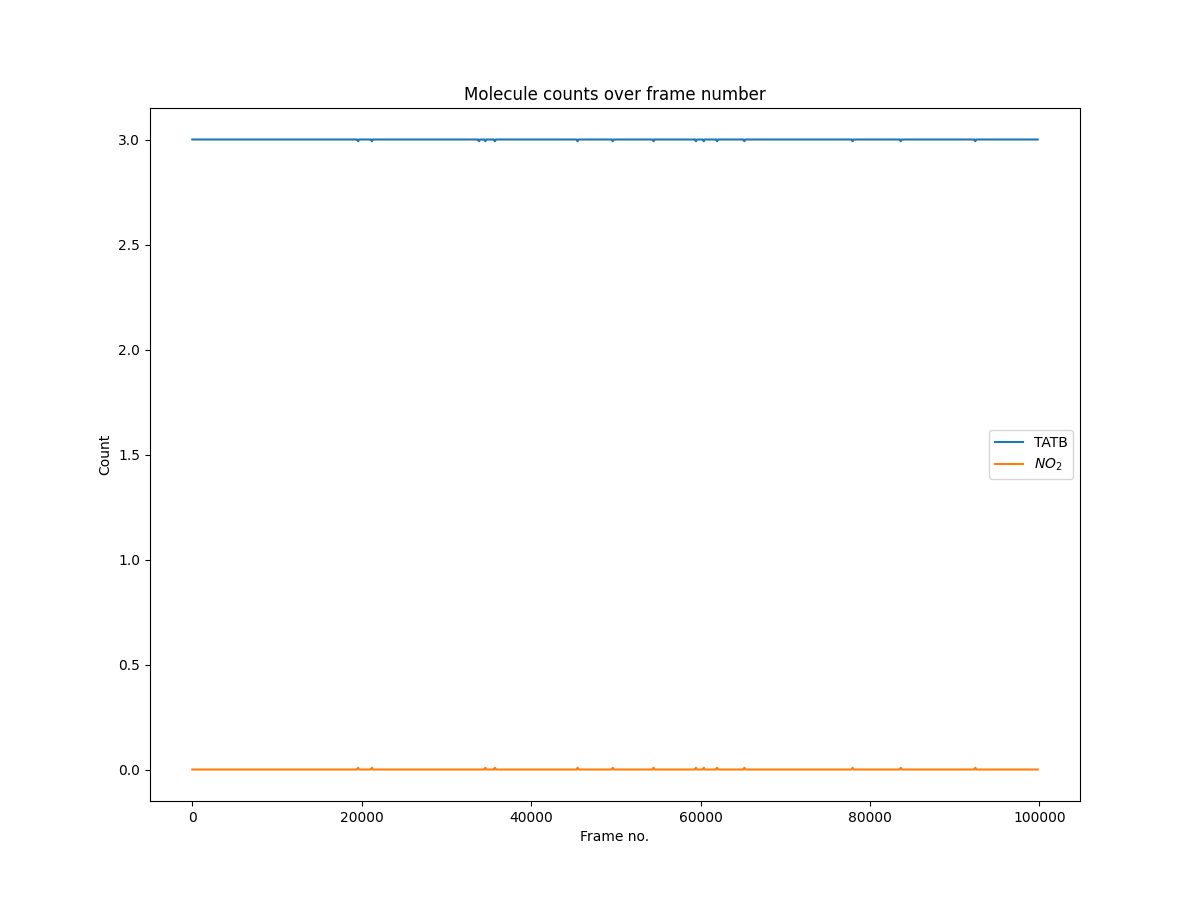
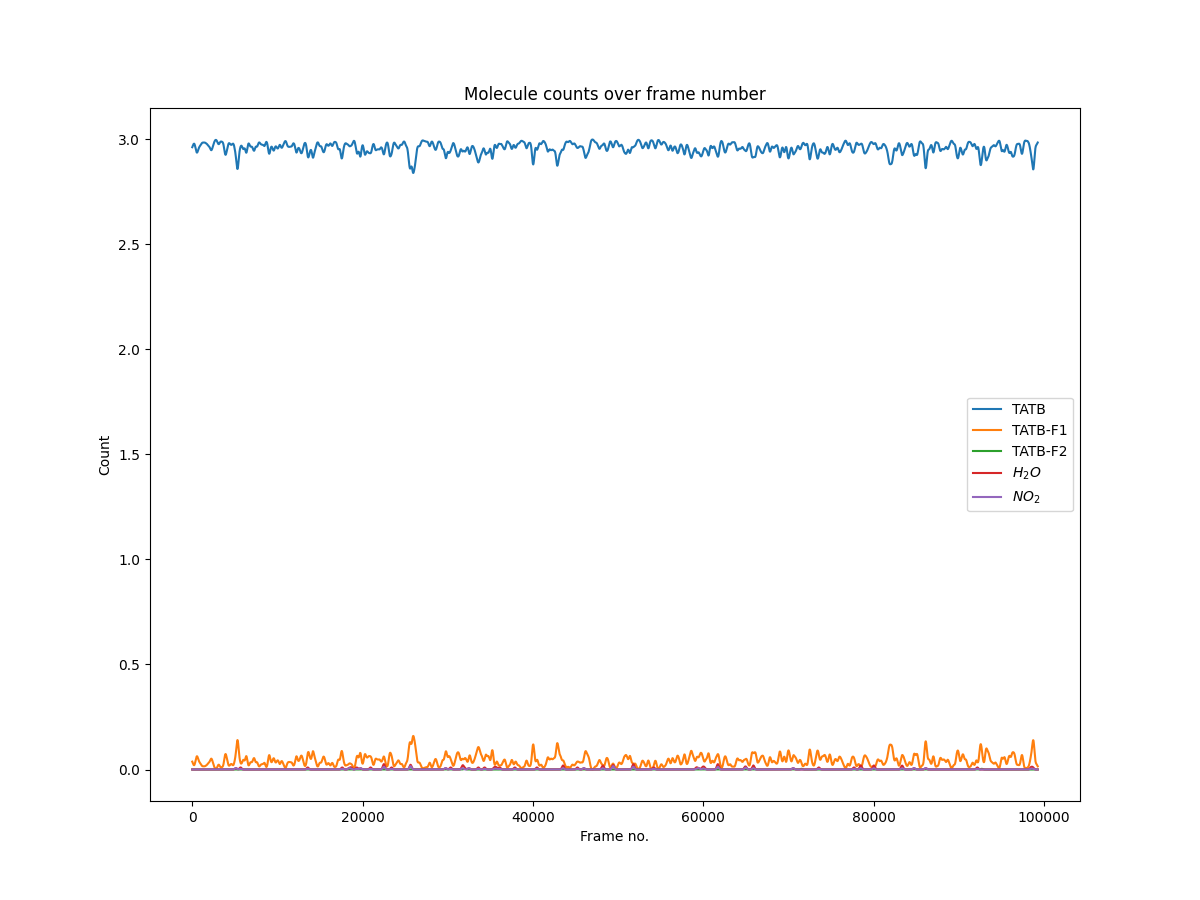
Optimizations and bug-fixing for analysis script

diff --git a/WA-1/00-common/analyze.py b/WA-1/00-common/analyze.py
@@ -20,6 +20,8 @@
 
 import sys
 import os
+import time
+import argparse
 import numpy as np
 import ase.io
 import matplotlib.pyplot as plt
@@ -31,92 +33,111 @@ import matplotlib.pyplot as plt
 CUTOFF_LENGTH = 1.85
 CUTOFF_LENGTH_SQ = CUTOFF_LENGTH**2
 
-CONVOLUTION_WIDTH = 200
+CONVOLUTION_WIDTH = 250
 
-MOLECULES_TO_FIND = [[[6, 6, 6, 6], r'TATB'],     # TATB, C6H6O6N6
-                     [[6, 4, 5, 6], r'TATB-F1'],  # TATB-F1 (furazan intermediate), C6H4O5N6
-                     [[6, 2, 4, 6], r'TATB-F2'],  # TATB-F2 (furazan intermediate), C6H2O4N6
-                     [[6, 0, 3, 6], r'TATB-F3'],  # TATB-F3 (furazan intermediate), C6O3N6
-                     [[1, 0, 2, 0], r'$CO_{2}$'], # Carbon dioxide, CO2
-                     [[1, 0, 1, 0], r'$CO$'],     # Carbon monoxide, CO
-                     [[0, 2, 1, 0], r'$H_{2}O$'], # Water, H2O
-                     [[0, 0, 0, 2], r'$N_{2}$'],  # Nitrogen gas, N2
-                     [[0, 0, 1, 2], r'$N_{2}O$'], # Nitrous oxide, N2O
-                     [[0, 0, 1, 1], r'$NO$'],     # Nitrogen monoxide, NO
-                     [[0, 0, 2, 1], r'$NO_{2}$']] # Nitrogen dioxide, NO2
+MOLECULES_TO_FIND = [[[6, 6, 6, 6], r'TATB', 'TATB'],       # TATB, C6H6O6N6
+                     [[6, 4, 5, 6], r'TATB-F1', 'TATB-F1'], # Furazan intermediate, C6H4O5N6
+                     [[6, 2, 4, 6], r'TATB-F2', 'TATB-F2'], # Furazan intermediate, C6H2O4N6
+                     [[6, 0, 3, 6], r'TATB-F3', 'TATB-F3'], # Furazan intermediate, C6O3N6
+                     [[1, 0, 2, 0], r'$CO_{2}$', 'CO2'],    # Carbon dioxide
+                     [[1, 0, 1, 0], r'$CO$', 'CO'],         # Carbon monoxide
+                     [[0, 2, 1, 0], r'$H_{2}O$', 'H2O'],    # Water
+                     [[0, 0, 2, 1], r'$NO_{2}$', 'NO2'],    # Nitrous dioxide
+                     [[0, 0, 1, 2], r'$N_{2}O$', 'N2O'],    # Nitrous oxide
+                     [[0, 0, 1, 1], r'$NO$', 'NO'],         # Nitrogen monoxide
+                     [[0, 0, 0, 2], r'$N_{2}$', 'N2']]      # Nitrogen gas
 
 
 #==================================================================================================
 
-if len(sys.argv) > 1:
-    os.chdir(sys.argv[1])
-if not os.path.isfile('md.traj'):
-    print('md.traj not found!')
+# Parse input arguments
+parser = argparse.ArgumentParser(prog='analyze.py')
+parser.add_argument('dirname', default='./')
+parser.add_argument('--traj', default='md.traj')
+parser.add_argument('-o', '--output', default='compositions.png')
+parser.add_argument('--filter', action='extend', nargs='*', default=None)
+args = parser.parse_args()
+
+# File system handling
+os.chdir(args.dirname)
+if not os.path.isfile(args.traj):
+    print(f'{args.traj} not found!')
     sys.exit()
-if os.path.isfile('compositions.png'):
-    os.remove('compositions.png')
+if os.path.isfile(args.output):
+    os.remove(args.output)
 
-def count_molecules(molecule, target):
-    if np.sum(np.mod(molecule, target)) > 0:
-        return 0
-    nonzero_index = np.nonzero(target)[0][0]
-    possible_count = molecule[nonzero_index] / target[nonzero_index]
-    for i in range(4):
-        if target[i] * possible_count != molecule[i]:
-            return 0
-    return possible_count
+# Filter only desired molecules
+if args.filter is not None:
+    whitelist = [[np.array(mol[0]), np.nonzero(mol[0])[0], mol[1]] for mol in MOLECULES_TO_FIND if mol[2] in args.filter]
+else:
+    whitelist = [[np.array(mol[0]), np.nonzero(mol[0])[0], mol[1]] for mol in MOLECULES_TO_FIND]
+MOLECULES_TO_FIND = whitelist
+print('Filtering for only: ', end='')
+for mol in MOLECULES_TO_FIND:
+    print(mol[2], end=' ')
+print()
 
-traj = ase.io.iread('md.traj', index=slice(0, None, 1))
-
+# Read trajectory
+time_start = time.time()
 list_of_compositions = list()
 frame_counter = 0
+molecule = np.zeros((4,), dtype=int)
+traj = ase.io.iread(args.traj, index=slice(0, None, 1))
 
 for atoms in traj:
 
     cell_params = np.array(atoms.cell.cellpar()[0:3])
     N_atoms = len(atoms)
     
-    molecular_identifiers = np.linspace(0, N_atoms, N_atoms, dtype=int)
+    molecular_label = np.linspace(0, N_atoms, N_atoms, dtype=int)
     for i in range(N_atoms):
         dist = atoms.positions - atoms.positions[i]
         dist -= cell_params * np.round(dist / cell_params)
         dist_sq = np.sum(np.square(dist), axis=1)
-        molecular_identifiers[dist_sq <= CUTOFF_LENGTH_SQ] = molecular_identifiers[i]
+        molecular_label[dist_sq <= CUTOFF_LENGTH_SQ] = molecular_label[i]
 
-    composition = {key[1]: 0 for key in MOLECULES_TO_FIND}
+    composition = {key[2]: 0 for key in MOLECULES_TO_FIND}
     
-    molecules = np.unique(molecular_identifiers)
-    for molecule_index in molecules:
-        molecule_contents = [0, 0, 0, 0]
-        molecule_contents[0] += np.sum(np.logical_and(molecular_identifiers == molecules, atoms.symbols == 'C'))
-        molecule_contents[1] += np.sum(np.logical_and(molecular_identifiers == molecules, atoms.symbols == 'H'))
-        molecule_contents[2] += np.sum(np.logical_and(molecular_identifiers == molecules, atoms.symbols == 'O'))
-        molecule_contents[3] += np.sum(np.logical_and(molecular_identifiers == molecules, atoms.symbols == 'N'))
+    unique_labels = np.unique(molecular_label)
+    for index in unique_labels:
+        molecule[:] = 0
+        molecule[0] += np.sum(np.logical_and(molecular_label == index, atoms.symbols == 'C'))
+        molecule[1] += np.sum(np.logical_and(molecular_label == index, atoms.symbols == 'H'))
+        molecule[2] += np.sum(np.logical_and(molecular_label == index, atoms.symbols == 'O'))
+        molecule[3] += np.sum(np.logical_and(molecular_label == index, atoms.symbols == 'N'))
         for target in MOLECULES_TO_FIND:
-            composition[target[1]] += count_molecules(molecule_contents, target[0])
+            molecule_components = molecule[target[1]]
+            count = np.min(np.floor_divide(molecule_components, target[0][target[1]]))
+            composition[target[2]] += count
+            molecule -= count * target[0]
     
     list_of_compositions.append(composition)
     frame_counter += 1
 
+# Convolution array for Gaussian smoothing
 conv_arr = np.linspace(-3, 3, 3 * CONVOLUTION_WIDTH + 1)
 conv_arr = np.exp(-0.5 * np.square(conv_arr))
 conv_arr = conv_arr / np.sum(conv_arr)
 
+# Generate plot
 fig, axis = plt.subplots()
 fig.set_size_inches(12, 9)
 for target in MOLECULES_TO_FIND:
-    counts = list()
-    display = False
-    for frame in list_of_compositions:
-        counts.append(frame[target[1]])
-        if frame[target[1]] > 0:
-            display = True
-    if display:
-        axis.plot(np.convolve(counts, conv_arr, 'valid'), label=target[1])
+    counts = [frame[target[2]] for frame in list_of_compositions]
+    if np.sum(counts) > 0:
+        axis.plot(np.convolve(counts, conv_arr, 'valid'), label=target[2])
 axis.set_title('Molecule counts over frame number')
 axis.set_xlabel('Frame no.')
 axis.set_ylabel('Count')
 axis.legend()
-fig.savefig('compositions.png', dpi=fig.dpi)
+fig.savefig(args.output, dpi=fig.dpi)
+
+# End of program
+time_taken = time.time() - time_start
+hours = int(time_taken / 3600)
+time_taken -= hours * 3600
+mins = int(time_taken / 60)
+time_taken -= mins * 60
+print(f'Wall time taken (hh:mm:ss) was {hours:02}:{mins:02}:{round(time_taken):02}.')
 
 sys.exit()
